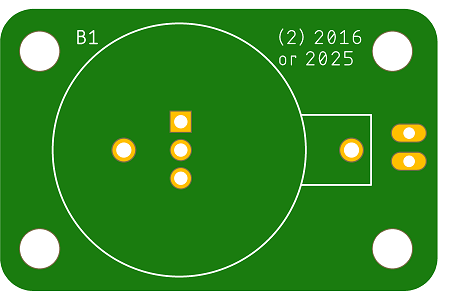
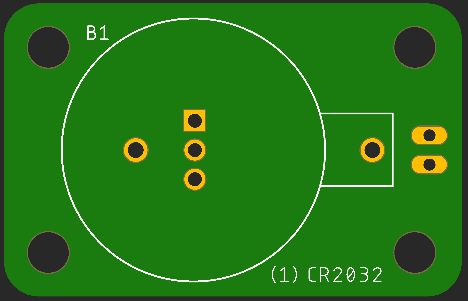
updates

diff --git a/readme.md b/readme.md
@@ -2,7 +2,7 @@
 
 ## Introduction
 
-This project aims to create a capacitive touch switch that uses CR2016 button cells to power a capacitive touch sensor and solid state relay to to assist with switch-adapting a device for assistive technology purposes.
+This project aims to create a capacitive touch switch that uses a CR2032 button cell to power a capacitive touch sensor and solid state relay to to assist with switch-adapting a device for assistive technology purposes.
 
 ## Status
 
@@ -14,18 +14,18 @@ This project aims to create a capacitive touch switch that uses CR2016 button ce
 
 * Test sensor power draw for the sensor and the LED in relay.
 * Add on-off switch?
+* Make sure SSR height (4mm) doesn't interfere with board mounting and sensor access.
 * Compare the TTP223 and TTP223B.
-* Label the outputs.
-* Find out why the sensor text is rendered upside down (the footprint image is correct).
 
 ### Components
 
-| Component                          | Source                                                       | Specs                                        |
-| ---------------------------------- | ------------------------------------------------------------ | -------------------------------------------- |
-| Capacitive touch sensor board (S1) | [HiLetgo TTP223 Cap Switch](https://smile.amazon.com/dp/B01D1D0FLG) (Amazon ) | 2.2-5.5V Toggle\|Momentary, Active High\|Low |
-| Solid State Relay (K1)             | [Toshiba TLP241A](https://www.digikey.com/short/rw8vd8dn)    | Likely to be replaced with another SSR.      |
-| Resistor (value TBD) (R1) 1206     |                                                              |                                              |
-| Coin Cell Holder (B1)              | [Keystone 1026](https://www.digikey.com/short/f35w9mv4)      | (2) CR2016 or CR 2025 cells.                 |
+| Component                          | Source                                                       | Specs                                                        |
+| ---------------------------------- | ------------------------------------------------------------ | ------------------------------------------------------------ |
+| Capacitive touch sensor board (S1) | [HiLetgo TTP223 Cap Switch](https://smile.amazon.com/dp/B01D1D0FLG) (Amazon ) | 2.2-5.5V Toggle\|Momentary, Active High\|Low                 |
+| Solid State Relay (K1)             | [Toshiba TLP241A](https://www.digikey.com/short/rw8vd8dn) ([datasheet](https://toshiba.semicon-storage.com/info/TLP241A_datasheet_en_20200217.pdf?did=14237&prodName=TLP241A)) | LED: 7.5mA Vf: 1.27V<br>Iout: 2A continuous, 6A pulsed<br>Ron: 90mΩ |
+| Resistor 180Ω (R1) 1206            | [Stackpole 180Ω](https://www.digikey.com/short/m5wfc0cm)     | 1/4W 5% 1206                                                 |
+| Coin Cell Holder (B1)              | [Keystone 1026](https://www.digikey.com/short/f35w9mv4) ([datasheet](https://www.keyelco.com/userAssets/file/M65p3.pdf)) | 4.5mm standoffs, (1) CR2032<br> or (2) CR2016 or 2025s       |
+| CR2032 Coin Cells (B1)             |                                                              | Vnom: 3V                                                     |
 
 ## Mounting
 
